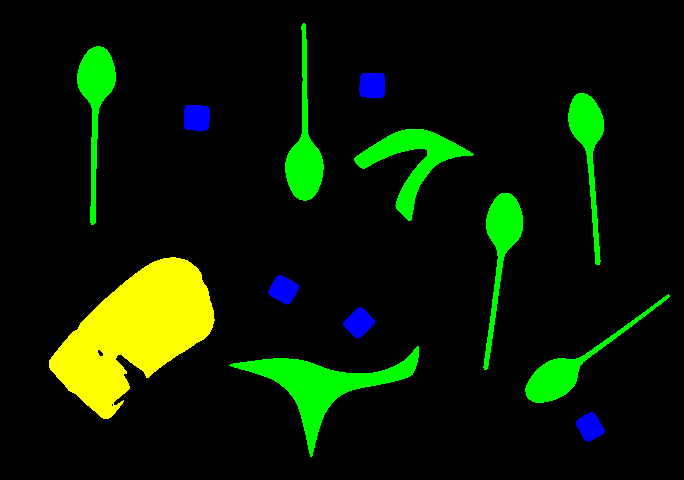
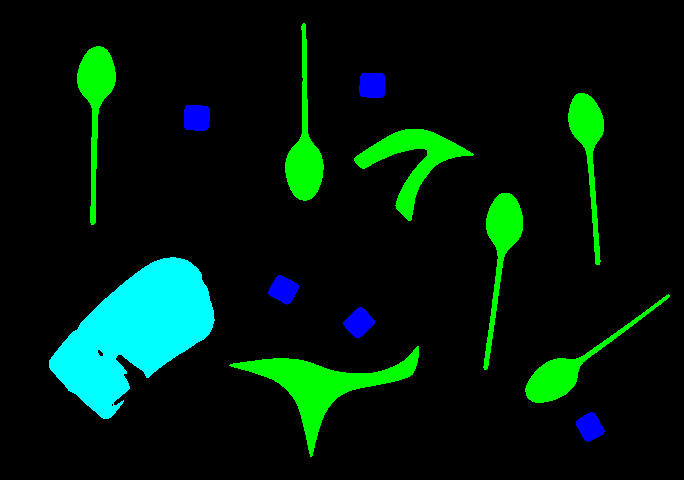
Update maim.go

Changed region(s): [[0.0614, 0.5312, 0.3377, 0.875]]

diff --git a/main.go b/main.go
@@ -48,7 +48,12 @@ func main() {
 
 		obj_chars = append(obj_chars, characteristic.ObjectCharacteristic{
 			ObjectID: k,
-			Ch: characteristic.Characteristic{Square: s, Perimeter: p},
+			Ch: characteristic.Characteristic{
+				Square: s,
+				Perimeter: p,
+				Compact: c,
+				Elongation: e,
+			},
 		})
 
 		ph := characteristic.CalcPhotometrics(img, v)
@@ -64,15 +69,17 @@ func main() {
 	clusters := cluster.RunKMeans(dataset, k)
 
 	for i, cl := range clusters { // отображение координат центров кластеров
-		fmt.Printf("%d centered at (%.f, %.f)\n", i+1, cl.Center.X, cl.Center.Y)
+		fmt.Printf("%d centered at (%.f, %.f)\n", i+1, cl.Center.Square, cl.Center.Perimeter)
 	}
 
+	// привязываем объект к соответствующему кластеру, чтобы раскрасить все точки,
+	// принадлежащие данному объекту, в уникальный цвет
 	objects_colors := make(map[byte]int)
 	for _, ob_ch := range obj_chars {
 		for cl_i, cl := range clusters {
 			for _, point := range cl.Points {
-				sq := int(math.Round(point.X))
-				per := int(math.Round(point.Y))
+				sq := int(math.Round(point.Square))
+				per := int(math.Round(point.Perimeter))
 				if ob_ch.Ch.Square == sq && ob_ch.Ch.Perimeter == per {
 					objects_colors[ob_ch.ObjectID] = cl_i+1
 					break
@@ -81,6 +88,7 @@ func main() {
 		}
 	}
 
+	// заполнение бинарной матрицы, исходя из раскраски объектов
 	for obj_k, cors := range objects {
 		if color_i, ok := objects_colors[obj_k]; ok {
 			for _, c := range cors {
@@ -92,3 +100,59 @@ func main() {
 	imgRes := binarization.BinMapToImage(bm, *imgBin2)
 	util.SavePNG(imgRes, path, filename, "bin_3")
 }
+
+
+//func printVal(wg *sync.WaitGroup, j int) {
+//	defer wg.Done()
+//	fmt.Print(j)
+//}
+//
+//func group() {
+//	var wg sync.WaitGroup
+//	for i := 0; i < 5; i++ {
+//		for j := 1; j <= 3; j++ {
+//			wg.Add(1)
+//			go printVal(&wg, j)
+//		}
+//		wg.Wait()
+//		fmt.Println()
+//	}
+//}
+//
+//func main() {
+//	group()
+//}
+
+//func startJob(i int) {
+//	fmt.Println(i)
+//}
+//
+//func worker(jobs chan int, ch chan struct{}, wg *sync.WaitGroup) {
+//	for j := range jobs {
+//		ch <- struct{}{}
+//		startJob(j)
+//		time.Sleep(500*time.Millisecond)
+//		<-ch
+//		wg.Done()
+//	}
+//}
+//
+//func jobs(count int) {
+//	ch := make(chan struct{}, 5)
+//	jobs := make(chan int, count)
+//	var wg sync.WaitGroup
+//
+//	go worker(jobs, ch, &wg)
+//
+//	for i := 0; i < count; i++ {
+//		go func(job int) {
+//			wg.Add(1)
+//			jobs <- job
+//		}(i)
+//	}
+//	wg.Wait()
+//}
+//
+//func main() {
+//	jobs(20)
+//}

diff --git a/blur/blur.go b/blur/blur.go
@@ -28,6 +28,7 @@ func Gaussian(img image.Image, sigma float64) *image.RGBA {
 	rtcl := make([]uint8, len(rscl))
 	gtcl := make([]uint8, len(rscl))
 	btcl := make([]uint8, len(rscl))
+
 	gaussBlur_4(rscl, rtcl, cp.Rect.Dx(), cp.Rect.Dy(), int(sigma))
 	gaussBlur_4(gscl, gtcl, cp.Rect.Dx(), cp.Rect.Dy(), int(sigma))
 	gaussBlur_4(bscl, btcl, cp.Rect.Dx(), cp.Rect.Dy(), int(sigma))
@@ -51,7 +52,6 @@ func boxesForGauss(sigma float64, n int) []int {
 	}
 
 	mIdeal := (12*sigma*sigma - float64(n*wl*wl+4*n*wl+3*n)) / float64(-4*wl-4)
-	// Round to the nearest number
 	m := int(mIdeal + 0.5)
 
 	sizes := make([]int, n)
@@ -67,7 +67,8 @@ func boxesForGauss(sigma float64, n int) []int {
 }
 
 func gaussBlur_4(scl, tcl []uint8, w, h, r int) {
-	bxs := boxesForGauss(float64(r), 3)
+	bxs := boxesForGauss(float64(r), 3) // получаем массив (окно) преобразования
+	// используем его для вертикального и горизонтального размытия RBG-составляющих
 	boxBlur_4(scl, tcl, w, h, (bxs[0]-1)/2)
 	boxBlur_4(tcl, scl, w, h, (bxs[1]-1)/2)
 	boxBlur_4(scl, tcl, w, h, (bxs[2]-1)/2)
@@ -77,12 +78,12 @@ func boxBlur_4(scl, tcl []uint8, w, h, r int) {
 	for i := 0; i < len(scl); i++ {
 		tcl[i] = scl[i]
 	}
-	boxBlurH_4(tcl, scl, w, h, r) // Horizontal blur
-	boxBlurT_4(scl, tcl, w, h, r) // Total blur
+	boxBlurH_4(tcl, scl, w, h, r) // горизонтальное размытие
+	boxBlurT_4(scl, tcl, w, h, r) // вертикальное размытие
 }
 
 func boxBlurH_4(scl, tcl []uint8, w, h, r int) {
-	var iarr float64 = 1 / float64(r+r+1)
+	var iarr = 1 / float64(r+r+1)
 	for i := 0; i < h; i++ {
 		ti := i * w
 		li := ti
@@ -122,7 +123,7 @@ func boxBlurH_4(scl, tcl []uint8, w, h, r int) {
 }
 
 func boxBlurT_4(scl, tcl []uint8, w, h, r int) {
-	var iarr float64 = 1 / float64(r+r+1)
+	var iarr = 1 / float64(r+r+1)
 	for i := 0; i < w; i++ {
 		ti := i
 		li := ti

diff --git a/cluster/cluster.go b/cluster/cluster.go
@@ -9,12 +9,18 @@ import (
 )
 
 type Point struct {
-	X float64
-	Y float64
+	Square     float64
+	Perimeter  float64
+	Compact    float64
+	Elongation float64
 }
 
 func (p Point) distance(p2 Point) float64 {
-	return math.Sqrt(math.Pow(p.X-p2.X, 2) + math.Pow(p.Y-p2.Y, 2))
+	return math.Sqrt(
+		math.Pow(p.Square-p2.Square, 2) +
+			math.Pow(p.Perimeter-p2.Perimeter, 2) +
+			math.Pow(p.Compact-p2.Compact, 2) +
+			math.Pow(p.Elongation-p2.Elongation, 2))
 }
 
 type Cluster struct {
@@ -23,15 +29,23 @@ type Cluster struct {
 }
 
 func (cluster *Cluster) repositionCenter() {
-	var x, y float64
-	var clusterCount = len(cluster.Points)
+	var squaresSum, perimetersSum, compactsSum, elongationsSum float64
+	var count = len(cluster.Points)
 
-	for i := 0; i < clusterCount; i++ {
-		x += cluster.Points[i].X
-		y += cluster.Points[i].Y
+	for i := 0; i < count; i++ {
+		squaresSum += cluster.Points[i].Square
+		perimetersSum += cluster.Points[i].Perimeter
+		compactsSum += cluster.Points[i].Compact
+		elongationsSum += cluster.Points[i].Elongation
 	}
+
 	cluster.Points = []Point{}
-	cluster.Center = Point{x / float64(clusterCount), y / float64(clusterCount)}
+	cluster.Center = Point{
+		squaresSum / float64(count),
+		perimetersSum / float64(count),
+		compactsSum / float64(count),
+		elongationsSum / float64(count),
+	}
 }
 
 func initClusters(dataset []Point, k int) []Cluster {
@@ -90,7 +104,12 @@ func RunKMeans(dataset []Point, k int) []Cluster {
 func PrepareDataset(objectsChars []characteristic.ObjectCharacteristic) []Point {
 	var dataset []Point
 	for _, o_ch := range objectsChars {
-		dataset = append(dataset, Point{float64(o_ch.Ch.Square), float64(o_ch.Ch.Perimeter)})
+		dataset = append(dataset, Point{
+			float64(o_ch.Ch.Square),
+			float64(o_ch.Ch.Perimeter),
+			o_ch.Ch.Compact,
+			o_ch.Ch.Elongation,
+		})
 	}
 	return dataset
 }

diff --git a/characteristic/characteristic.go b/characteristic/characteristic.go
@@ -9,6 +9,8 @@ import (
 type Characteristic struct {
 	Square int
 	Perimeter int
+	Compact float64
+	Elongation float64
 }
 
 type ObjectCharacteristic struct {
